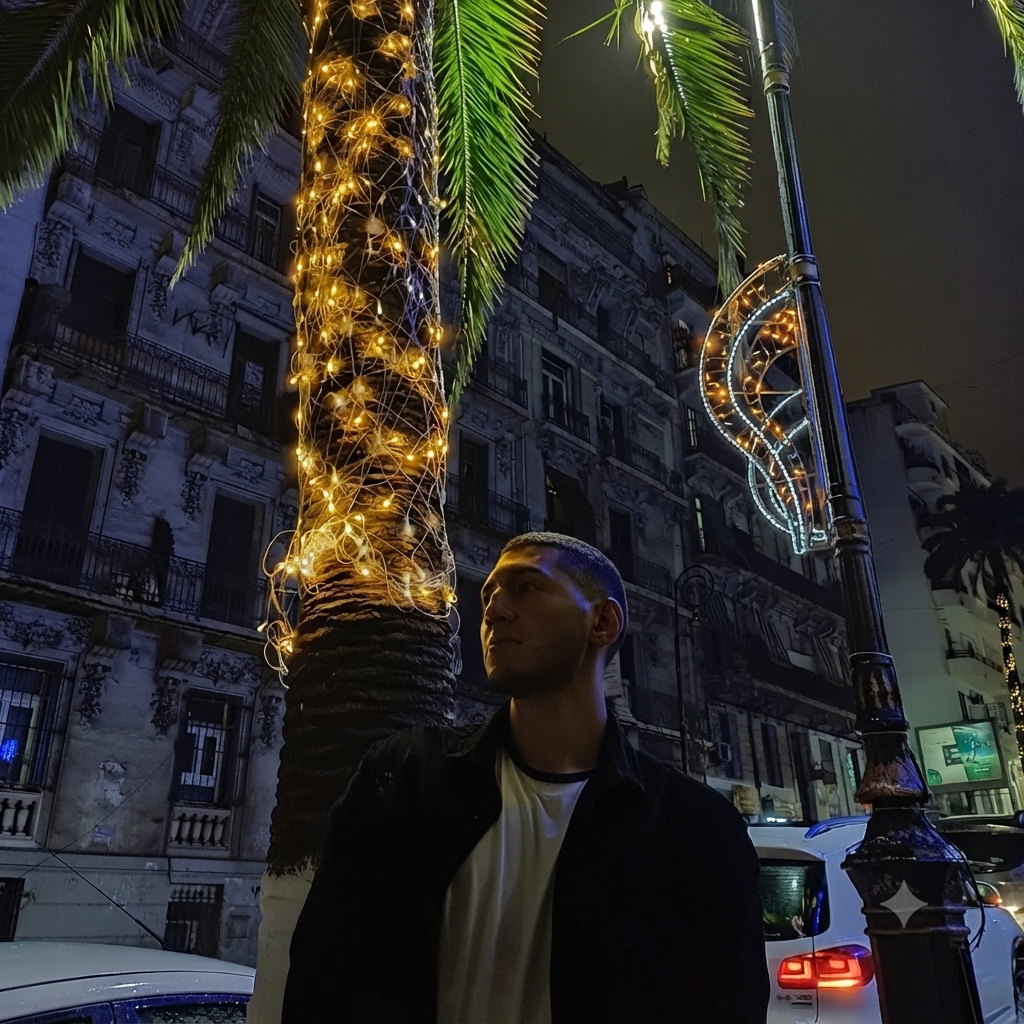
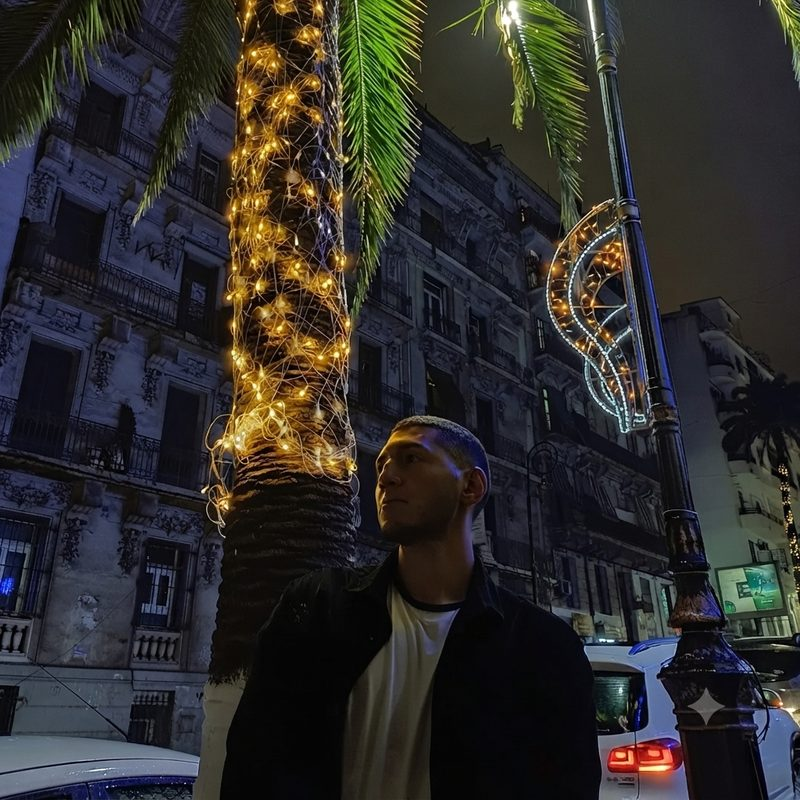
Performance, compatibility and mobile-menu opacity pass
Performance — the two heavy items on the critical path are dealt with:

- portrait.jpeg recompressed 2263KB -> 126KB (1024px q~unbounded -> 800px q82
  progressive; it displays at ~300 CSS px, so 800 covers 2x DPR).
- The three.js bundle (964KB) leaves the critical path: DeskScene now mounts
  through DeskSceneLazy, a client wrapper using next/dynamic with ssr:false
  and a slot-holding placeholder so the CTAs don't jump. index.html now
  references ~669KB of JS instead of ~1.7MB; the desk streams in after
  hydration.
- Canvas dpr capped [1, 2] -> [1, 1.75] plus powerPreference
  high-performance: invisible at this scene scale, real fill-rate savings on
  2-3x phone screens.
- Below-fold <img>s (About portrait, PosterCard) gain loading=lazy,
  decoding=async, and intrinsic width/height against layout shift.

Compatibility:

- Hex/rgba fallbacks ahead of the oklch()/color-mix() declarations on body
  and ::selection. On a browser without oklch the var() declarations drop and
  the page painted white-on-white; now it degrades to the same palette.
- .hero min-height gets a 100vh fallback line ahead of 100svh.
- text-size-adjust: 100% stops iOS Safari inflating text in landscape.

Mobile menu, per request: the open dropdown's background goes from
glass (rgba 255,255,255,0.08 -- effectively transparent over content) to
rgba(18,20,25,0.94), near-solid, keeping the blur for the remaining sliver.
This is the one visual change to NavPill, explicitly asked for.
[…]

Changed region(s): [[0.5, 0.0, 0.5312, 0.1562], [0.7188, 0.25, 0.75, 0.3125], [0.4375, 0.0938, 0.4688, 0.125]]

diff --git a/app/globals.css b/app/globals.css
@@ -346,7 +346,11 @@ body {
 
 body {
   min-height: 100vh;
+  /* hex fallbacks first: a browser without oklch() drops the var()
+     declarations and would otherwise paint white-on-white */
+  background: #000;
   background: var(--bg-canvas);
+  color: #d8dade;
   color: var(--text-secondary);
   font-family: var(--font-sans);
   font-size: var(--fs-base);
@@ -354,9 +358,13 @@ body {
   line-height: var(--lh-normal);
   -webkit-font-smoothing: antialiased;
   -moz-osx-font-smoothing: grayscale;
+  /* iOS Safari inflates text in landscape without this */
+  -webkit-text-size-adjust: 100%;
+  text-size-adjust: 100%;
 }
 
 ::selection {
+  background: rgba(96, 165, 250, 0.4);
   background: color-mix(in oklch, var(--blue-400) 40%, transparent);
   color: var(--white);
 }
@@ -448,7 +456,9 @@ img {
 .hero {
   position: relative;
   display: flex;
-  /* fills the viewport: svh so mobile browser chrome doesn't clip the desk */
+  /* fills the viewport: svh so mobile browser chrome doesn't clip the desk;
+     the vh line above it is the fallback where svh isn't understood */
+  min-height: 100vh;
   min-height: 100svh;
   padding-block: 7.5rem var(--space-5);
   background: var(--nebula);

diff --git a/components/sections/Hero.jsx b/components/sections/Hero.jsx
@@ -1,7 +1,7 @@
 import { Fragment } from "react";
 import { Pill } from "../ds/core/Pill.jsx";
 import { Button } from "../ds/core/Button.jsx";
-import { DeskScene } from "../site/DeskScene.jsx";
+import { DeskSceneLazy } from "../site/DeskSceneLazy.jsx";
 import { person } from "@/lib/data";
 
 /* The title is split into the lines the reveal animates: each line rides up
@@ -80,7 +80,7 @@ export function Hero() {
         {/* the product-shot slot: MeetSponsors puts a framed mockup under the
             headline, and the desk scene takes that role here */}
         <div className="hero-scene hero-enter" style={enter(860)}>
-          <DeskScene className="desk-scene" />
+          <DeskSceneLazy className="desk-scene" />
         </div>
 
         <div className="hero-actions hero-enter" style={enter(980)}>

diff --git a/components/site/DeskScene.jsx b/components/site/DeskScene.jsx
@@ -399,9 +399,11 @@ export function DeskScene({ className = "" }) {
         // "percentage" -> PCFShadowMap. The default (`shadows`) maps to
         // PCFSoftShadowMap, which three r185 deprecates and silently downgrades.
         shadows="percentage"
-        dpr={[1, 2]}
+        /* cap at 1.75: on 2-3x phone screens the extra density is invisible
+           at this scene scale, but the fill-rate cost is very real */
+        dpr={[1, 1.75]}
         camera={{ position: [0, 1.6, 4.6], fov: 42 }}
-        gl={{ antialias: true, alpha: true }}
+        gl={{ antialias: true, alpha: true, powerPreference: "high-performance" }}
       >
         <FitFrame />
 

diff --git a/components/ds/navigation/NavPill.jsx b/components/ds/navigation/NavPill.jsx
@@ -195,7 +195,9 @@ export function NavPill({
                   flexDirection: "column",
                   gap: 2,
                   borderRadius: "var(--radius-2xl)",
-                  background: "var(--glass-fill-strong)",
+                  /* near-solid: the page must not bleed through the open menu.
+                     The blur only treats the remaining sliver of transparency. */
+                  background: "rgba(18, 20, 25, 0.94)",
                   border: "1px solid var(--glass-border-strong)",
                   WebkitBackdropFilter: "var(--glass-backdrop-lg)",
                   backdropFilter: "var(--glass-backdrop-lg)",

diff --git a/components/site/DeskSceneLazy.jsx b/components/site/DeskSceneLazy.jsx
@@ -1,0 +1,18 @@
+"use client";
+
+import dynamic from "next/dynamic";
+
+/**
+ * DeskSceneLazy — defers the three.js bundle (~1MB) out of the critical path.
+ * The hero text paints immediately; the desk streams in right after hydration.
+ * ssr:false also skips server-rendering a WebGL canvas that can only ever
+ * draw on the client.
+ */
+export const DeskSceneLazy = dynamic(
+  () => import("./DeskScene.jsx").then((m) => m.DeskScene),
+  {
+    ssr: false,
+    // hold the slot so the CTAs below don't jump when the canvas mounts
+    loading: () => <div style={{ flex: 1, minHeight: "inherit" }} aria-hidden="true" />,
+  }
+);

diff --git a/components/sections/About.jsx b/components/sections/About.jsx
@@ -63,7 +63,11 @@ export function About() {
                 <img
                   src={asset("/portrait.jpeg")}
                   alt={`Portrait of ${person.name}`}
-                  style={{ width: "100%", aspectRatio: "1 / 1", objectFit: "cover" }}
+                  loading="lazy"
+                  decoding="async"
+                  width={800}
+                  height={800}
+                  style={{ width: "100%", height: "auto", aspectRatio: "1 / 1", objectFit: "cover" }}
                 />
               </div>
 

diff --git a/components/ds/data-display/PosterCard.jsx b/components/ds/data-display/PosterCard.jsx
@@ -53,6 +53,8 @@ export function PosterCard({
           <img
             src={asset(image)}
             alt={title}
+            loading="lazy"
+            decoding="async"
             style={{
               position: "absolute",
               inset: 0,
